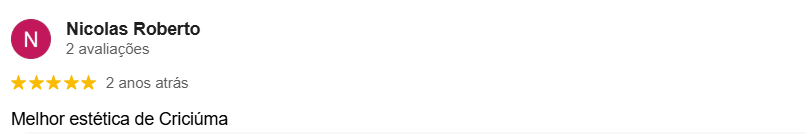
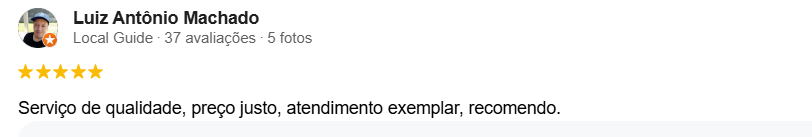
edi services, create aboutUs, SEO

Changed region(s): [[0.0, 0.7164, 0.7134, 0.9552], [0.0, 0.0597, 0.4032, 0.4478], [0.0, 0.4776, 0.2481, 0.6866]]

diff --git a/src/app/layout.tsx b/src/app/layout.tsx
@@ -15,36 +15,48 @@ const geistMono = Geist_Mono({
 
 export const metadata: Metadata = {
   title: "MK Studio Automotivo | Estética Automotiva em Criciúma - SC",
-  description: "Estética automotiva premium em Criciúma: polimento, vitrificação, lavação detalhada e limpeza de motor. Atendimento especializado para quem é exigente com o carro.",
+  description:
+    "Especialistas em estética automotiva premium em Criciúma: vitrificação de pintura, polimento técnico e comercial, lavagem técnica, oxizanitização, pintura de pinças e muito mais. Seu carro tratado com excelência!",
   keywords: [
     "Estética automotiva Criciúma",
-    "Polimento automotivo",
-    "Vitrificação de pintura",
-    "Lavação detalhada de carro",
-    "Limpeza de motor Criciúma",
-    "Cuidado automotivo",
-    "Detailing Criciúma",
-    "Lavagem técnica de carro",
+    "Estética automotiva em Criciúma SC",
+    "Polimento técnico Criciúma",
+    "Polimento comercial Criciúma",
+    "Vitrificação de pintura Criciúma",
+    "Lavagem técnica detalhada",
+    "Pintura de pinças Criciúma",
+    "Restauração de bancos de couro",
+    "Higienização interna de carro",
+    "Oxizanitização automotiva",
+    "Troca de filtro do ar-condicionado",
+    "Enceramento técnico Criciúma",
+    "Lavagem técnica do motor",
+    "Detailing automotivo Criciúma",
     "MK Studio Automotivo",
-    "Serviços automotivos premium",
+    "Serviços automotivos Criciúma",
+    "Cuidados com carro Criciúma",
+    "Estética premium para veículos",
+    "Limpeza profissional de carro",
+    "Studio de estética automotiva",
   ],
   authors: [{ name: "MK Studio Automotivo", url: "https://seudominio.com.br" }],
   creator: "MK Studio Automotivo",
   publisher: "MK Studio Automotivo",
   robots: "index, follow",
   icons: {
-    icon: "/favicon.ico", // ou "/favicon.png" se estiver usando PNG
+    icon: "/favicon.ico",
   },
   openGraph: {
     title: "MK Studio Automotivo | Estética Automotiva em Criciúma - SC",
-    description: "Transforme seu carro com polimento, vitrificação, e lavação detalhada. Qualidade e dedicação em cada detalhe.",
-    url: "https://seudominio.com.br",
+    description:
+      "Transforme seu carro com vitrificação, polimento, higienização e muito mais. Detalhamento automotivo de alto nível em Criciúma.",
+    url: "https://mkstudioautomotivo.com.br",
     siteName: "MK Studio Automotivo",
     locale: "pt_BR",
     type: "website",
     images: [
       {
-        url: "https://seudominio.com.br/og-image.jpg", // Troca isso pela URL real de uma imagem bonita da loja ou serviço
+        url: "https://mkstudioautomotivo.com.br/logo_mk_fundo.jpg", // aqui entra a logo da pasta public
         width: 1200,
         height: 630,
         alt: "MK Studio Automotivo - Estética automotiva Criciúma",
@@ -54,12 +66,12 @@ export const metadata: Metadata = {
   twitter: {
     card: "summary_large_image",
     title: "MK Studio Automotivo | Estética Automotiva em Criciúma",
-    description: "Polimento, vitrificação e lavação detalhada com qualidade premium em Criciúma - SC.",
-    images: ["https://seudominio.com.br/og-image.jpg"], // mesma imagem do Open Graph
+    description:
+      "Polimento técnico, vitrificação, lavagem e muito mais com padrão premium em Criciúma - SC.",
+    images: ["https://mkstudioautomotivo.com.br/logo_mk_fundo.jpg"],
   },
-  metadataBase: new URL("https://seudominio.com.br"), // coloca o domínio real aqui
+  metadataBase: new URL("https://seudominio.com.br"),
 };
-
 
 export default function RootLayout({  
   children,

diff --git a/src/components/services/index.tsx b/src/components/services/index.tsx
@@ -1,38 +1,83 @@
 "use client"
 
 import useEmblaCarousel from 'embla-carousel-react'
-import { GiCarWheel, GiCarSeat } from "react-icons/gi";
-import { IoCarSport } from "react-icons/io5";
-import { MdLocalCarWash } from "react-icons/md";
+import { GiCarSeat, GiCarWheel } from "react-icons/gi";
+import { IoCarSport, IoSparklesSharp } from "react-icons/io5";
+import { MdLocalCarWash, MdOutlineWaterDrop, MdOutlineAir, MdBuild } from "react-icons/md";
+import { FaSprayCan, FaWind } from "react-icons/fa";
+import { BsStars, BsSnow } from "react-icons/bs";
 import { FaWhatsapp } from 'react-icons/fa'
+import { IoDiamond } from "react-icons/io5";
+import { GiRaceCar } from "react-icons/gi";
+import { IoCarSharp } from "react-icons/io5";
 import { IoIosArrowBack, IoIosArrowForward } from "react-icons/io";
 
 const services = [
   {
-    title: "Restaurção de couro",
-    description: "Trabalhamos com restauração de couros automotivo.",
-    icon: <GiCarSeat />,
+    title: "Vitrificação de Pintura",
+    description: "Proteção cerâmica que realça o brilho e preserva a pintura por muito mais tempo.",
+    icon: <GiRaceCar />,
   },
   {
-    title: "Polimento automotivo",
-    description: "Polimento para deixar seu carro como novo.",
+    title: "Polimento Técnico",
+    description: "Correção precisa de riscos e imperfeições com brilho profissional refinado.",
     icon: <IoCarSport />,
   },
   {
-    title: "Lavação detalhada",
-    description: "Lavação detalhada, limpeza interna e externa completa e motor.",
+    title: "Polimento Comercial",
+    description: "Brilho rápido e uniforme para valorizar a estética do carro com agilidade.",
+    icon: <BsStars />,
+  },
+  {
+    title: "Polimento de Vidros",
+    description: "Remove manchas e riscos, garantindo vidros mais limpos, seguros e bonitos.",
+    icon: <IoCarSharp />,
+  },
+  {
+    title: "Lavagem Técnica Detalhada",
+    description: "Limpeza interna e externa completa com atenção a cada cantinho do carro.",
     icon: <MdLocalCarWash />,
   },
   {
-    title: "Pintura de pinças de freio",
-    description: "Deixe seu carro do seu jeito, mude a cor das pinças de freio do seu carro.",
+    title: "Pintura de Pinças e Cubos",
+    description: "Estilo esportivo com pintura resistente que transforma o visual das rodas.",
     icon: <GiCarWheel />,
   },
-]
+  {
+    title: "Restauração de Couro",
+    description: "Revitaliza bancos de couro, devolvendo cor, textura e aparência original.",
+    icon: <GiCarSeat />,
+  },
+  {
+    title: "Higienização Interna",
+    description: "Elimina sujeiras e odores, deixando o interior limpo e agradável.",
+    icon: <FaSprayCan />,
+  },
+  {
+    title: "Oxizanitização",
+    description: "Desinfecção com ozônio para purificar o ar e eliminar fungos e bactérias.",
+    icon: <FaWind />,
+  },
+  {
+    title: "Troca do Filtro de Ar Condicionado",
+    description: "Substituição do filtro para garantir ar puro e mais conforto a bordo.",
+    icon: <BsSnow />,
+  },
+  {
+    title: "Enceramento Técnico",
+    description: "Brilho espelhado com proteção durável e toque suave na pintura.",
+    icon: <IoDiamond />,
+  },
+  {
+    title: "Lavagem Técnica do Motor",
+    description: "Limpeza segura do motor, valorizando o visual sem comprometer nada.",
+    icon: <MdBuild />,
+  },
+];
 
 export default function Services() {
+  
   const [emblaRef, emblaApi] = useEmblaCarousel({ loop: true })
-
   const scrollPrev = () => emblaApi?.scrollPrev();
   const scrollNext = () => emblaApi?.scrollNext();
 

diff --git a/src/components/aboutUs/index.tsx b/src/components/aboutUs/index.tsx
@@ -1,0 +1,48 @@
+import Image from 'next/image';
+import { FaWhatsapp } from "react-icons/fa";
+
+export default function AboutUs() {
+  return (
+    <section className="w-full h-full bg-white pb-12">
+      <div className="px-6 py-4 grid grid-cols-1 md:grid-cols-2 gap-4 justify-around items-center">
+        {/* Foto dos fundadores */}
+        <div className="p-4">
+          <Image 
+            src="/historia.jpg"
+            alt="Fundadores da MK Studio Automotivo"
+            width={540}
+            height={540}
+            className="rounded-2xl hover:scale-105 transition-transform duration-300"
+          />
+        </div>
+
+        {/* Texto: Nossa História */}
+        <div className="flex flex-col items-center w-full mt-2 md:mt-0">
+          <div className="flex flex-col items-center md:items-start text-left max-w-md w-full">
+            <h2 className="text-zinc-700 font-semibold text-5xl mb-4">
+              Nossa História
+            </h2>
+            <p className="text-black text-lg md:text-xl leading-relaxed">
+              A MK Studio Automotivo nasceu da paixão por carros e da vontade de oferecer algo além do básico. Fundada por um casal que sempre acreditou em fazer bem feito, nossa missão é cuidar de cada veículo como se fosse único.
+            </p>
+            <p className="text-black text-lg md:text-xl leading-relaxed mt-4">
+              Com mais de 5 anos de experiência, já atendemos mais de 1.000 clientes e nos tornamos referência em estética automotiva premium em Criciúma. Aqui, cada detalhe importa — e é isso que nos move todos os dias.
+            </p>
+
+            {/* Botão do WhatsApp */}
+            <div className="w-full flex justify-center md:justify-start mt-6">
+              <a 
+                target="_blank"
+                className="bg-green-500 text-white font-semibold flex w-65 gap-2 rounded border-none p-2 justify-center cursor-pointer hover:bg-green-600"
+                href="https://wa.me/5548999572643?text=Olá vim pelo site e gostaria de mais informações..." 
+              >
+                <FaWhatsapp size={24} />
+                Faça seu orçamento  
+              </a>
+            </div>
+          </div>
+        </div>
+      </div>
+    </section>
+  );
+}

diff --git a/src/components/testimonials/index.tsx b/src/components/testimonials/index.tsx
@@ -10,16 +10,22 @@ const testimonials = [
     photo: "/google_2.png",
   },
   {
-    photo: "/google_2.png",
+    photo: "/google_3.png",
   },
   {
-    photo: "/google_2.png",
+    photo: "/google_4.png",
   },
   {
-    photo: "/google_2.png",
+    photo: "/google_5.png",
   },
   {
-    photo: "/google_2.png",
+    photo: "/google_6.png",
+  },
+  {
+    photo: "/google_7.png",
+  },
+  {
+    photo: "/google_8.png",
   },
 ]
 
@@ -38,7 +44,7 @@ export default function Testimonials() {
               href="https://g.co/kgs/ssTPucS"
               target="_blank"
               rel="noopener noreferrer"
-              className="rounded-2xl p-2 flex justify-center items-center"
+              className="p-2 flex justify-center items-center"
             >
               <Image
                 src={item.photo}

diff --git a/src/components/hero/index.tsx b/src/components/hero/index.tsx
@@ -9,7 +9,7 @@ export default function Hero() {
                 src="/hero.jpg"
                 alt="Foto roda do carro preto."
                 fill
-                className="object-cover z-0" // z-0 pra ficar no fundo
+                className="object-cover z-0"
                 quality={100}
                 priority
             />
@@ -22,7 +22,6 @@ export default function Hero() {
                 <a 
                     target="_blank"
                     href={"https://wa.me/5548999572643?text=Olá vim pelo site e gostaria de mais informações..."}
-
                     className="bg-green-500 text-white font-semibold flex w-65 gap-2 rounded border-none p-2 justify-center cursor-pointer hover:bg-green-600">
                     <FaWhatsapp size={24} />
                     Faça seu orçamento  

diff --git a/src/app/page.tsx b/src/app/page.tsx
@@ -4,6 +4,7 @@ import Footer from "@/components/footer";
 import Hero from "@/components/hero";
 import Services from "@/components/services";
 import Testimonials from "@/components/testimonials";
+import AboutUs from "@/components/aboutUs";
 
 export default function Home() {
   return (
@@ -11,6 +12,7 @@ export default function Home() {
       <Hero />
       <About />
       <Services />
+      <AboutUs />
       <Testimonials />
       <Footer />
     </Container>

diff --git a/src/app/links/page.tsx b/src/app/links/page.tsx
@@ -24,7 +24,7 @@ export default function LinksPage() {
       {/* Botões */}
       <div className="w-full max-w-sm flex flex-col gap-4">
         <a
-          href="https://seusite.com.br"
+          href="https://mkstudioautomotivo.com.br"
           target="_blank"
           rel="noopener noreferrer"
           className="bg-white text-black flex items-center justify-center gap-3 py-3 rounded-lg font-semibold hover:bg-red-700 hover:text-white transition"
